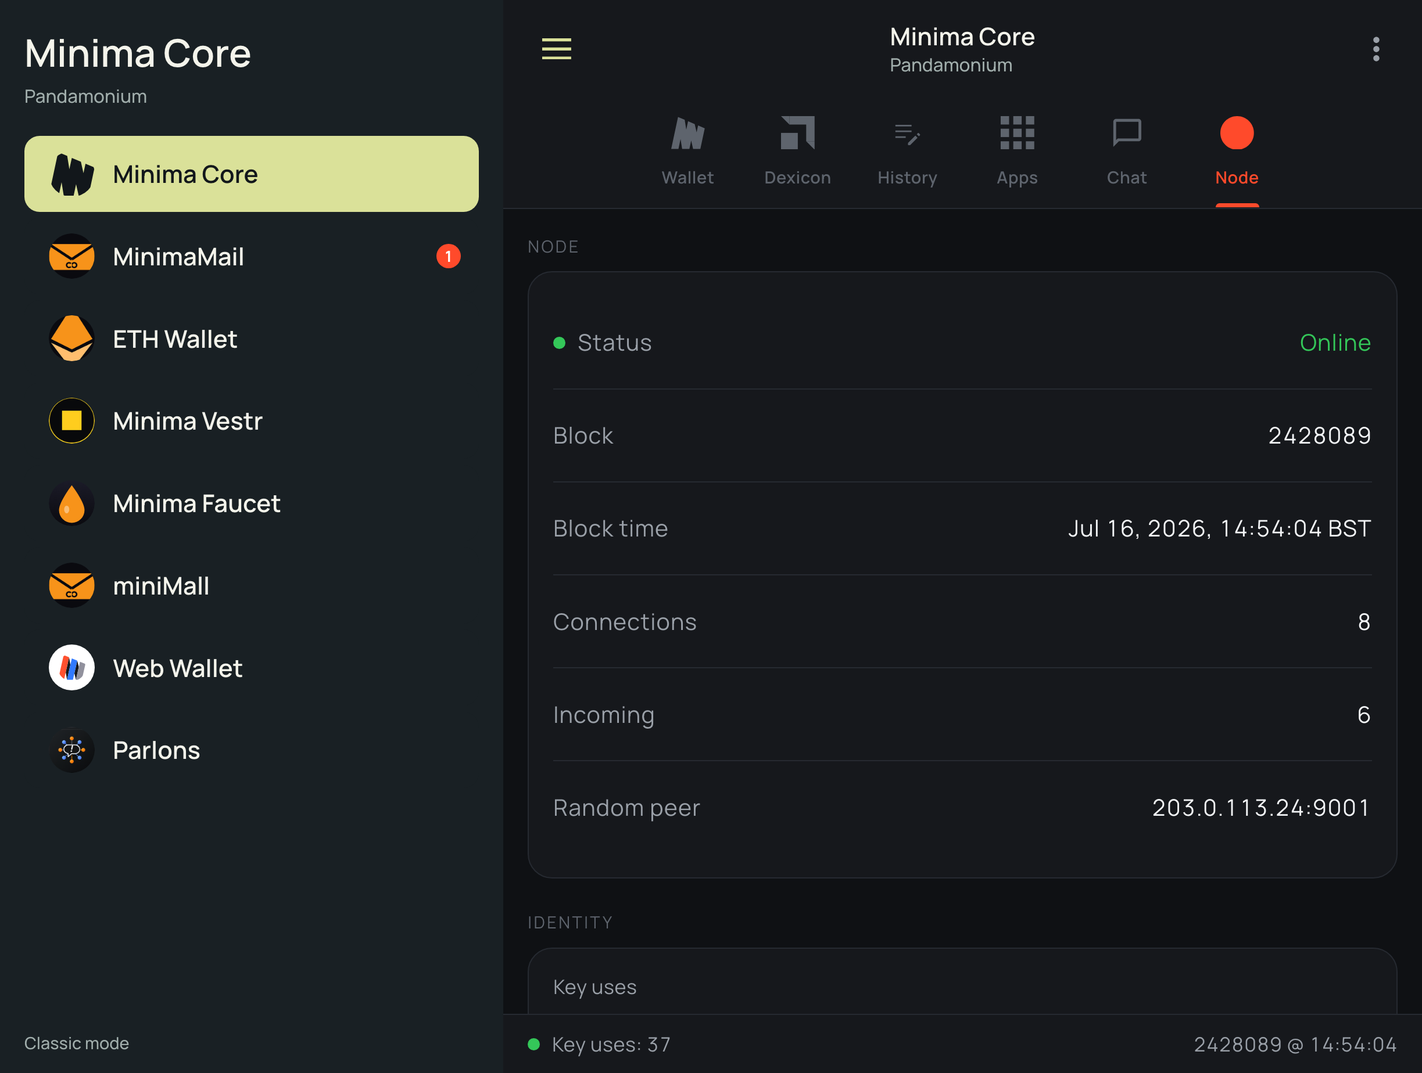
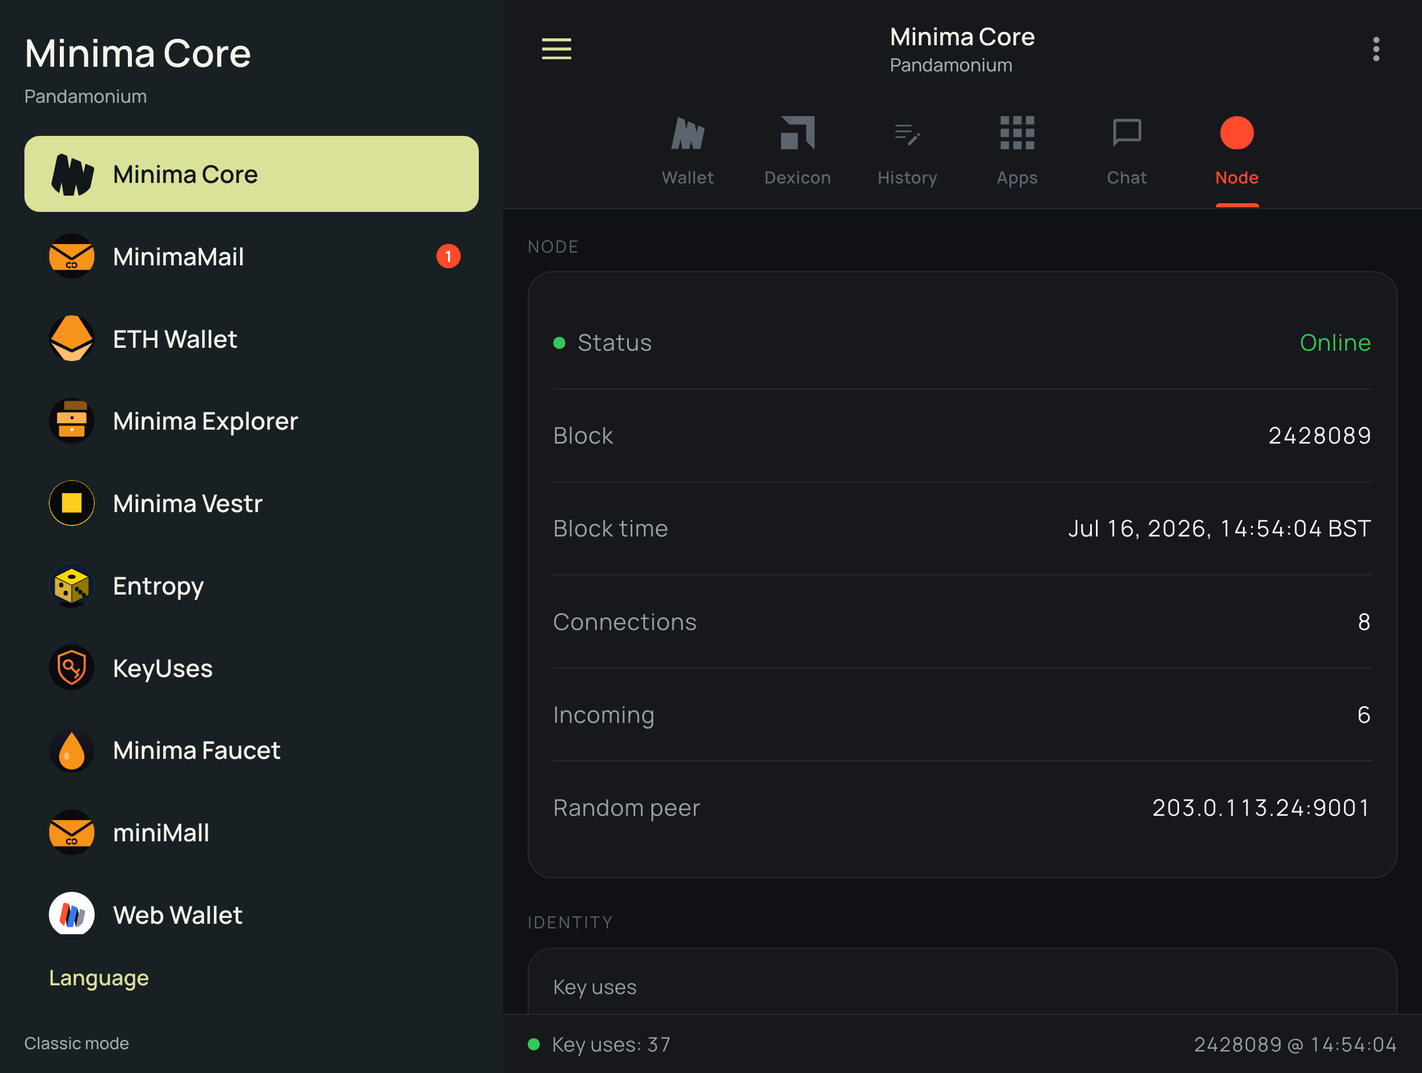
0.19.140: Language in the tray, the overflow menu and the first-run launcher (the phone's chooser), saved by the main process and applied without a restart; the t() helper and the catalog rules, English only so far
Claude-Session: https://claude.ai/code/session_01P3zos5bMGMNjR4T6fhfPNh

diff --git a/main/main.js b/main/main.js
@@ -38,6 +38,7 @@ const casino = require("./casino");
 const vestr = require("./vestr");
 const webwallet = require("./webwallet");
 const parlons = require("./parlons");
+const lang = require("./lang");         // the app's language here: the window's own helper and catalogs
 const reserve = require("./reserve");   // the shared coin reservation (docs/COIN_RESERVATION.md); main/rpc.js calls its guard
 
 // THE COIN RESERVATION FOLLOWS THE NODE. Registered before every engine's own status listener, so its file is being
@@ -163,6 +164,7 @@ function setupPermissions() {
 
 function pushStatus() { if (win && !win.isDestroyed()) win.webContents.send("mcd:status", node.snapshot()); }
 
+let refreshTrayMenu = () => {};   // set by setupTray: the menu is rebuilt when the node's state or the language changes
 function setupTray() {
   // the official Minima logo mark (bare, transparent) for the menu-bar tray, sized for the menu bar
[1 lines of base64/hex data omitted]
@@ -180,7 +182,8 @@ function setupTray() {
     ]);
     tray.setToolTip(flavor.test ? flavor.productName + " (TEST PROFILE)" : flavor.productName);
     tray.setContextMenu(menu());
-    node.on("status", () => tray && tray.setContextMenu(menu()));
+    refreshTrayMenu = () => { if (tray) tray.setContextMenu(menu()); };
+    node.on("status", refreshTrayMenu);
   } catch (e) { /* tray optional */ }
 }
 
@@ -217,6 +220,22 @@ ipcMain.handle("mcd:clipSecret", (_e, text) => clipSecret.copy(text));
 
 // Startup Params "Copy RPC password": main process to clipboard. The password is never returned to the renderer.
 ipcMain.handle("mcd:copyRpcPassword", () => { clipboard.writeText(config.rpcSecret()); return true; });
+
+// Language. The preload asks once, synchronously, so the window's first paint is already in the language; the
+// system's language is read here (after "ready": a window exists) and only when nothing was picked.
+let langReady = false;
+function currentLang() {
+  if (!langReady) { let sys = ""; try { sys = (app.getPreferredSystemLanguages && app.getPreferredSystemLanguages()[0]) || app.getLocale(); } catch (e) {} lang.init(config.load().language, sys); langReady = true; }
+  return lang.current();
+}
+ipcMain.on("mcd:langGet", (e) => { try { e.returnValue = currentLang(); } catch (err) { e.returnValue = "en"; } });
+ipcMain.handle("mcd:langSet", (_e, code) => {
+  currentLang();
+  if (!lang.set(code)) throw new Error("Unknown language.");
+  config.save({ language: code });
+  refreshTrayMenu();
+  return code;
+});
 
 ipcMain.handle("mcd:appVersion", () => app.getVersion());
 // Which app this is, for the screens: its name, and whether it updates itself and may open at login (main/flavor.js).

diff --git a/renderer/i18n.js b/renderer/i18n.js
@@ -1,0 +1,84 @@
+/*
+ * i18n.js: the four languages of Pandamonium (English, 简体中文, Русский, Українська), for the window and the main process.
+ *
+ * THE KEY IS THE ENGLISH TEXT. t("Send") shows "Send" in English and the catalog's value in another language; a key
+ * a catalog does not hold shows its English, never a blank and never a key name. Catalogs are renderer/i18n/<code>.js,
+ * loaded by script tags in the window and by require() in the main process (main/lang.js).
+ *
+ *   t(key, params)    plain text, for textContent, toasts, dialogs, attributes set as properties
+ *   th(key, params)   the same, HTML-escaped as a whole (params included): for text put into markup
+ *   tr(key, html)     the translated text escaped, the params inserted AS GIVEN: only for values the caller has
+ *                     already escaped or built as markup (what the template inserted before it was translated)
+ *   N_(key)           marks a key held in a table and translated where it is shown: returns the key unchanged
+ *
+ * Placeholders are named: "{n} coins". A catalog value may be an object of plural forms ({ one, few, many, other }),
+ * chosen by Intl.PluralRules from params.n. NUMBERS ARE NEVER FORMATTED HERE: an amount is inserted as the string the
+ * caller passes, exactly. Translated text is data: it is never parsed as HTML (scripts/i18n-test.cjs also refuses a
+ * catalog value that carries "<", ">", or a quote or ampersand its English does not).
+ */
+(function (root) {
+  "use strict";
+  const CODES = ["en", "zh", "ru", "uk"];
+  const NAMES = { en: "English", zh: "简体中文", ru: "Русский", uk: "Українська" };   // each in its own language, as the phone's chooser
+  const TAGS = { en: "en", zh: "zh-Hans", ru: "ru", uk: "uk" };
+  const CAT = { en: {} }, REVIEW = {}, RULES = {}, listeners = [];
+  let lang = "en";
+
+  /** A system or browser language tag to one of the four: any Chinese is 简体中文 (the only Chinese the phone has); anything else unknown is English. */
+  function pick(tag) {
+    const s = String(tag == null ? "" : tag).toLowerCase();
+    return s === "zh" || s.startsWith("zh-") || s.startsWith("zh_") ? "zh" : /^ru([-_]|$)/.test(s) ? "ru" : /^uk([-_]|$)/.test(s) ? "uk" : "en";
+  }
+  const supported = (code) => CODES.includes(code);
+  const own = (o, k) => Object.prototype.hasOwnProperty.call(o, k);
+  const esc = (s) => String(s == null ? "" : s).replace(/[&<>"']/g, c => ({ "&": "&amp;", "<": "&lt;", ">": "&gt;", '"': "&quot;", "'": "&#39;" }[c]));
+  const fill = (s, p, f) => (p ? s.replace(/\{(\w+)\}/g, (m, k) => (own(p, k) ? f(p[k]) : m)) : s);
+  const str = (v) => String(v == null ? "" : v);
+
+  /** The text for a key in the current language: the catalog's, else English's own plural entry, else the key itself. */
+  function text(key, p) {
+    key = String(key);
+    let v = lang !== "en" && CAT[lang] && own(CAT[lang], key) ? CAT[lang][key] : own(CAT.en, key) ? CAT.en[key] : key, code = v === key || !CAT[lang] || !own(CAT[lang], key) ? "en" : lang;
+    if (v && typeof v === "object") {
+      let form = "other";
+      try { form = (RULES[code] || (RULES[code] = new Intl.PluralRules(TAGS[code]))).select(Number(p && p.n)); } catch (e) { /* no Intl: "other" */ }
+      v = own(v, form) ? v[form] : own(v, "other") ? v.other : key;
+    }
+    return typeof v === "string" && v ? v : key;
+  }
+  const t = (key, p) => fill(text(key, p), p, str);
+  const th = (key, p) => fill(esc(text(key, p)), p, esc);
+  const tr = (key, p) => fill(esc(text(key, p)), p, str);
+  const N_ = (key) => key;
+
+  function add(code, entries, review) {
+    if (!supported(code)) throw new Error("i18n: unknown language " + code);
+    CAT[code] = Object.assign(CAT[code] || {}, entries);
+    if (review) REVIEW[code] = (REVIEW[code] || []).concat(review);
+  }
+  /** Switch language. False for a language with no catalog loaded (the picker never offers one). */
+  function set(code) {
+    if (!supported(code) || !CAT[code]) return false;
+    if (code === lang) return true;
+    lang = code;
+    if (root.document && root.document.documentElement && root.document.documentElement.setAttribute) root.document.documentElement.setAttribute("lang", TAGS[code]);
+    for (const fn of listeners.slice()) { try { fn(code); } catch (e) { /* one screen's repaint must not stop the others */ } }
+    return true;
+  }
+  /** The page's own fixed text: data-i18n="key" (the element's text), data-i18n-placeholder / -aria-label / -title / -alt (that attribute). */
+  function apply(scope) {
+    if (!scope || !scope.querySelectorAll) return;
+    for (const n of scope.querySelectorAll("[data-i18n]")) n.textContent = t(n.getAttribute("data-i18n"));
+    for (const a of ["placeholder", "aria-label", "title", "alt"])
+      for (const n of scope.querySelectorAll("[data-i18n-" + a + "]")) n.setAttribute(a, t(n.getAttribute("data-i18n-" + a)));
+  }
+
+  const I18N = { CODES, NAMES, TAGS, pick, supported, add, set, apply, t, th, tr, N_,
+    lang: () => lang, tag: () => TAGS[lang],
+    languages: () => CODES.filter(c => CAT[c]),                 // the languages that have a catalog, in the phone's order
+    onChange: (fn) => { listeners.push(fn); },
+    catalog: (code) => CAT[code] || null, review: (code) => (REVIEW[code] || []).slice() };
+
+  root.I18N = I18N; root.t = t; root.th = th; root.tr = tr; root.N_ = N_;
+  if (typeof module !== "undefined" && module.exports) module.exports = I18N;
+})(typeof window !== "undefined" ? window : globalThis);

diff --git a/renderer/app.js b/renderer/app.js
@@ -174,6 +174,7 @@ function showKeyModeBlock(msg) {
 }
 function onStatus(s) {
   if (s.keyModeAlert) showKeyModeBlock(s.keyModeAlert);
+  LAST_STATUS = s;   // kept for a language change: the footer is painted again from it
   paintKeyMode(s.keyMode);
   paintFooter(s);
   nodeState = s.state;
@@ -221,6 +222,7 @@ function frScreen(title, back, bodyClass) {
 }
 function showSetup() {
   frScreen("", null, "fr-launch").innerHTML = `
+    <div class="fr-top"><button class="fr-lang" id="frLang">${th("Language")}</button></div>
     <div class="fr-hero">${CORE_MARK.replace("tray__ic", "fr-logo")}
       <div class="fr-name">MINIMA CORE</div>
       <p class="fr-intro">Your own node, on your computer.\nChoose how to begin.</p></div>
@@ -229,6 +231,7 @@ function showSetup() {
       <button class="btn btn--outline ps-btn ps-btn--main" id="frRestore">Restore Wallet</button>
       <button class="btn btn--outline ps-btn ps-btn--main" id="frParams">Startup Params</button>
     </div>`;
+  el("frLang").onclick = chooseLanguage;
   el("frNew").onclick = () => frStart(null);
   el("frRestore").onclick = () => frRestore();
   el("frParams").onclick = () => renderParams(frScreen("Startup Params", showSetup), true, showSetup);
@@ -869,6 +872,7 @@ function initShell() {
   el("walReceive").onclick = () => selectTab("receive");
   el("walHead").onclick = toggleWalBreakdown;
   el("stopStart").onclick = () => { toast("Starting the node…"); api.nodeStart(); };
+  el("trayLang").onclick = () => { if (NARROW.matches) setTray(false); chooseLanguage(); };
 
   // tray
   const list = el("trayList");
@@ -989,6 +993,7 @@ function openSettingsAt(cardId) {
 }
 async function menuAction(act) {
   if (act === "logs" || act === "terminal" || act === "settings") selectTab(act);
+  else if (act === "language") chooseLanguage();
   else if (act === "backup") { BK_PAGE = ""; selectTab("backup"); }
   else if (act === "params") selectTab("params");
   else if (act === "shutdown") {
@@ -1001,6 +1006,36 @@ async function menuAction(act) {
     try { await api.nodeStop(); } catch (e) { toast(e.message || String(e), "err"); }
   }
 }
+
+// ---- Language: the phone's chooser (Language.choose): the four languages, each named in itself, the current one marked.
+// The choice is saved by the main process (its own dialogs, menu and notifications follow it) and applied at once:
+// the page's fixed text, the shell, and the screen on show. A screen that holds typed text is not redrawn under the
+// user; it changes the next time it opens.
+function chooseLanguage() {
+  const d = openDlg("langDlg", "Language · 语言 · Язык · Мова", `<div class="lang-list" role="radiogroup" aria-label="${th("Language")}">` + I18N.languages().map(c =>
+    `<button class="lang-opt" role="radio" aria-checked="${c === I18N.lang()}" lang="${I18N.TAGS[c]}" data-lang="${c}">${esc(I18N.NAMES[c])}</button>`).join("") + `</div>`, "");
+  if (!d) return;
+  d.root.querySelector("[data-close]").textContent = t("Close");
+  const cur = d.root.querySelector('[aria-checked="true"]'); if (cur) cur.focus();
+  d.root.querySelectorAll("[data-lang]").forEach(b => b.onclick = async () => {
+    const code = b.dataset.lang;
+    d.close();
+    if (code === I18N.lang()) return;
+    try { await api.langSet(code); } catch (e) { toast(ipcError(e), "err"); return; }   // not saved: not switched (the main process and the window never disagree)
+    I18N.set(code);
+  });
+}
+let LAST_STATUS = null;
+function relang() {
+  I18N.apply(document);
+  el("barPage").textContent = SUB_TITLE[activeView] || "";
+  if (LAST_STATUS) { paintKeyMode(); paintFooter(LAST_STATUS); } else paintKeyMode();
+  if (el("setup").style.display !== "none") { if (el("frLang")) showSetup(); return; }   // first run: only the launcher is redrawn (the seed screens hold typed words)
+  const v = el("view-" + activeView);
+  const typed = v && [...v.querySelectorAll("input:not([type=checkbox]):not([type=radio]):not([type=range]):not([readonly]), textarea:not([readonly])")].some(i => i.value);
+  if (typed) toast(t("This screen changes language the next time it opens.")); else renderActive();
+}
+I18N.onChange(relang);
 
 // Footer, as the phone's: a dot and the key line on the left, "block @ time" on the right. This node uses
 // classic keys, so the left reads "Key uses: N" (the phone's own text when block-as-key-uses is off).

diff --git a/renderer/shell.css b/renderer/shell.css
@@ -142,6 +142,19 @@ img.tray__ic[src$="minima-mark.svg"] { background: #fff; padding: 6px; }
 .tray__row--sel, .tray__row--sel:hover { background: var(--tray-accent); color: var(--tray-bg); }
 .tray__row[draggable="true"] { -webkit-user-drag: element; }
 .tray__row--drag { opacity: .45; }
+/* "Language", pinned under the rows: the phone's text button in the accent colour, 48 high, left aligned */
+.tray__lang { flex: 0 0 auto; min-height: 48px; margin-top: 4px; padding: 0 16px; border: 0; border-radius: 10px; background: transparent; color: var(--tray-accent);
+  cursor: pointer; text-align: left; font: 600 14px/1.2 var(--sans); }
+.tray__lang:hover { background: #212A2F; }
+.tray__lang:focus-visible { outline: 2px solid var(--tray-accent); outline-offset: -2px; }
+/* the language chooser: one row per language, each written in itself */
+.lang-list { display: flex; flex-direction: column; gap: 4px; }
+.lang-opt { min-height: 48px; padding: 0 16px 0 44px; position: relative; border: 1px solid var(--border); border-radius: var(--radius); background: var(--surface); color: var(--text);
+  cursor: pointer; text-align: left; font: 600 16px/1.2 var(--sans); }
+.lang-opt::before { content: ""; position: absolute; left: 16px; top: 50%; width: 14px; height: 14px; margin-top: -8px; border: 2px solid var(--dim); border-radius: 50%; }
+.lang-opt[aria-checked="true"]::before { border-color: var(--orange); background: radial-gradient(var(--orange) 0 45%, transparent 50%); }
+.lang-opt:hover { background: var(--surface2); }
+.lang-opt:focus-visible { outline: 2px solid var(--orange); outline-offset: 1px; }
 .tray__mode { font-size: 11px; font-weight: 500; line-height: 15px; color: var(--tray-muted); padding-top: 12px; }
 .tray-scrim { display: none; }
 /* narrow windows: the tray overlays the screen under a scrim, as on the phone */
@@ -433,6 +446,10 @@ textarea.ps-field { min-height: 66px; line-height: 21px; }
 .fr-body { flex: 1 1 0; min-height: 0; overflow-y: auto; }
 .fr-body.pscreen { padding: 24px 24px 40px; }
 .fr-launch { display: flex; flex-direction: column; }
+.fr-top { flex: 0 0 auto; display: flex; justify-content: flex-end; padding: 4px 12px 0; }   /* the phone's launcher: "Language" at the top right */
+.fr-lang { min-height: 48px; padding: 0 12px; border: 0; border-radius: var(--radius); background: transparent; color: var(--orange); cursor: pointer; font: 600 14px/1.2 var(--sans); }
+.fr-lang:hover { background: var(--surface2); }
+.fr-lang:focus-visible { outline: 2px solid var(--orange); outline-offset: -2px; }
 .fr-hero { flex: 1 1 auto; display: flex; flex-direction: column; align-items: center; justify-content: center; padding: 56px 32px 24px; }
 .fr-logo { width: 112px; height: 112px; fill: #08090B; }
 .fr-name { margin-top: 26px; font: 800 16px/22px var(--sans); letter-spacing: .34em; margin-right: -.34em; color: var(--text); }

diff --git a/renderer/index.html b/renderer/index.html
@@ -20,6 +20,8 @@
       <div class="tray__title">Minima Core</div>
       <div class="tray__sub">Pandamonium</div>
       <div class="tray__list" id="trayList"></div>
+      <!-- "Language" pinned under the rows, as the phone's drawer (PandamoniumHooks: a text button in the accent colour). -->
+      <button class="tray__lang" id="trayLang" data-i18n="Language">Language</button>
       <div class="tray__mode" id="trayMode">Classic mode</div>
     </aside>
     <div class="tray-scrim" id="trayScrim" hidden></div>
@@ -32,7 +34,7 @@
         <h1 class="bar__page" id="barPage"></h1>
         <button class="bar__btn bar__more" id="moreBtn" aria-label="More" aria-haspopup="menu" aria-controls="moreMenu" aria-expanded="false"><svg viewBox="0 0 24 24" aria-hidden="true"><path d="M12 8c1.1 0 2-.9 2-2s-.9-2-2-2-2 .9-2 2 .9 2 2 2zm0 2c-1.1 0-2 .9-2 2s.9 2 2 2 2-.9 2-2-.9-2-2-2zm0 6c-1.1 0-2 .9-2 2s.9 2 2 2 2-.9 2-2-.9-2-2-2z"/></svg></button>
         <!-- The phone's overflow menu, in the phone's order, minus its phone-only items and what has no
-             desktop function yet (Reset Minima, Language). Settings is the desktop's own addition. -->
+             desktop function yet (Reset Minima). Settings is the desktop's own addition. -->
         <div class="menu" id="moreMenu" role="menu" aria-label="More" hidden>
           <button class="menu__item menu__item--update" role="menuitem" id="hdrUpdate" hidden></button>
           <button class="menu__item" role="menuitem" data-act="logs">Logs</button>
@@ -40,6 +42,7 @@
           <button class="menu__item" role="menuitem" data-act="backup">Backup &amp; Recovery</button>
           <button class="menu__item" role="menuitem" data-act="params">Startup Params</button>
           <button class="menu__item" role="menuitem" data-act="shutdown">Shutdown</button>
+          <button class="menu__item" role="menuitem" data-act="language" data-i18n="Language">Language</button>
           <button class="menu__item" role="menuitem" data-act="settings">Settings</button>
         </div>
       </header>
@@ -265,6 +268,9 @@
   <!-- generic status toast -->
   <div class="toast" id="toast" style="display:none"></div>
 
+  <script src="i18n.js"></script>         <!-- the four languages: t(), th(), tr(); the key is the English text -->
+  <script src="i18n/en.js"></script>      <!-- one catalog per language; English holds only its plural forms -->
+  <script src="i18n/start.js"></script>   <!-- picks the saved language (or the system's) before any screen is drawn -->
   <script src="qrcode.js"></script>
   <script src="params.js"></script>
   <script src="wordentry.js"></script>

diff --git a/scripts/dev-preview/build.js b/scripts/dev-preview/build.js
@@ -180,13 +180,14 @@ if (process.argv.includes("--shots")) {
     ["wide-1440x900", "view=balances&tray=1", 1440, 900, 1], ["narrow-680", "view=balances&tray=1", 680, 704, 2]
   ];
   const only = (process.argv.find(a => a.startsWith("--only=")) || "").slice(7);   // --only=wallet captures the names that start with it
+  const lang = (process.argv.find(a => a.startsWith("--lang=")) || "").slice(7);   // --lang=ru captures in that language, into shots/lang-ru-…
   for (const dark of [true, false]) for (const [name, query, w = 932, h = 704, scale = 2.625] of set) {
-    if (only && !name.startsWith(only)) continue;
-    const file = path.join(here, "shots", (dark ? "dark-" : "light-") + name + ".png");
+    if (only && !only.split(",").some(o => name === o || (o.endsWith("*") && name.startsWith(o.slice(0, -1))) || (!lang && name.startsWith(o)))) continue;
+    const file = path.join(here, "shots", (lang ? "lang-" + lang + "-" : "") + (dark ? "dark-" : "light-") + name + ".png");
     execFileSync(chrome, ["--headless=new", "--disable-gpu", "--hide-scrollbars", "--screenshot=" + file, `--window-size=${w},${h}`,
       "--force-device-scale-factor=" + scale, "--virtual-time-budget=5000", "--allow-file-access-from-files",
       ...(dark ? ["--force-dark-mode"] : []),
-      pathToFileURL(out) + "?" + query], { stdio: "ignore" });
+      pathToFileURL(out) + "?" + query + (lang ? "&lang=" + lang : "")], { stdio: "ignore" });
     console.log("shot " + path.relative(process.cwd(), file));
   }
 }

diff --git a/main/lang.js b/main/lang.js
@@ -1,0 +1,16 @@
+/*
+ * lang.js: the app's language in the main process. The same helper and the same catalogs as the window
+ * (renderer/i18n.js, renderer/i18n/<code>.js), so a dialog, a menu or a notice made here uses the words the screens use.
+ * The saved choice is config "language" ("" = follow the system when it is one of the four, else English).
+ * No Electron here: main.js passes the saved value and the system's language in.
+ */
+const I18N = require("../renderer/i18n.js");
+for (const code of ["en"]) require("../renderer/i18n/" + code + ".js");
+
+/** The language to run in: the saved one if it is one of the four, else the system's, else English. */
+function resolve(saved, system) { const c = I18N.supported(saved) ? saved : I18N.pick(system); return I18N.catalog(c) ? c : "en"; }
+function init(saved, system) { const c = resolve(saved, system); I18N.set(c); return c; }
+/** A language picked in the window: true when it is one of the four with a catalog (and now current). */
+function set(code) { return typeof code === "string" && I18N.set(code); }
+
+module.exports = { init, set, resolve, current: I18N.lang, t: I18N.t, I18N };

diff --git a/main/config.js b/main/config.js
@@ -79,6 +79,7 @@ const DEFAULTS = {
   coinGuard: true,           // the shared coin reservation (main/reserve.js). false = the whole guard is a passthrough
   coinGuardSends: "observe", // what it does to `send` and `consolidate`: "off" | "observe" (log only, the default) | "enforce"
   frozenApps: [],            // the Apps tab's Freeze: ids of the apps whose background work is stopped (main/freeze.js)
+  language: "",              // "en" | "zh" | "ru" | "uk": the language picked in "Language" ("" = the system's when it is one of the four, else English; main/lang.js)
   openAtLogin: false         // "Open at login": register the app with the OS (mac/win) or ~/.config/autostart (linux)
                              // Every key the renderer saves MUST be declared here — save() drops any key DEFAULTS
                              // does not name (the 0.16.97 casinoDollar regression). scripts/config-keys-test.cjs

diff --git a/main/preload.js b/main/preload.js
@@ -20,6 +20,10 @@ contextBridge.exposeInMainWorld("mcd", {
   restoreBackup: (o) => ipcRenderer.invoke("mcd:restoreBackup", o),
   copyRpcPassword: () => ipcRenderer.invoke("mcd:copyRpcPassword"),
 
+  // language: the saved (or the system's) language as a plain string, known before the first screen is drawn; langSet saves a pick
+  lang: (() => { try { const c = ipcRenderer.sendSync("mcd:langGet"); return typeof c === "string" ? c : "en"; } catch (e) { return "en"; } })(),
+  langSet: (code) => ipcRenderer.invoke("mcd:langSet", code),
+
   // config
   getConfig: () => ipcRenderer.invoke("mcd:getConfig"),
   saveConfig: (patch) => ipcRenderer.invoke("mcd:saveConfig", patch),

diff --git a/renderer/i18n/start.js b/renderer/i18n/start.js
@@ -1,0 +1,9 @@
+// The language to start in: the one saved by the main process (window.mcd.lang, read by the preload), else the
+// system's when it is one of the four, else English. Runs after the catalogs and before every screen script, so a
+// table built while a script loads is already in that language; then the page's own fixed text is set.
+(function () {
+  "use strict";
+  const saved = window.mcd && window.mcd.lang;
+  I18N.set(typeof saved === "string" && I18N.supported(saved) ? saved : I18N.pick(typeof navigator !== "undefined" && navigator.language));
+  I18N.apply(document);
+})();

diff --git a/scripts/dev-preview/stub.js b/scripts/dev-preview/stub.js
@@ -404,6 +404,7 @@
   };
   // Anything not listed: an "on…" subscription is a no-op that returns its unsubscribe; any other call
   // resolves to null, and the view shows whatever it shows for "nothing came back".
+  fixtures.lang = Q.get("lang") || "en"; fixtures.langSet = async (code) => code;   // &lang=zh|ru|uk: the language the preload would hand over
   window.mcd = new Proxy(fixtures, { get: (t, k) => t[k] || (String(k).startsWith("on") ? () => () => {} : async () => null) });
 
   // Drive the shell to the requested state once app.js has booted.

diff --git a/renderer/i18n/en.js b/renderer/i18n/en.js
@@ -1,0 +1,4 @@
+// English: the source. A key is its own English text, so this catalog holds only what a key cannot say by itself:
+// the plural forms ({ one, other }, chosen from params.n). Every key here must be a plural in every other catalog.
+(typeof I18N !== "undefined" ? I18N : require("../i18n.js")).add("en", {
+});
